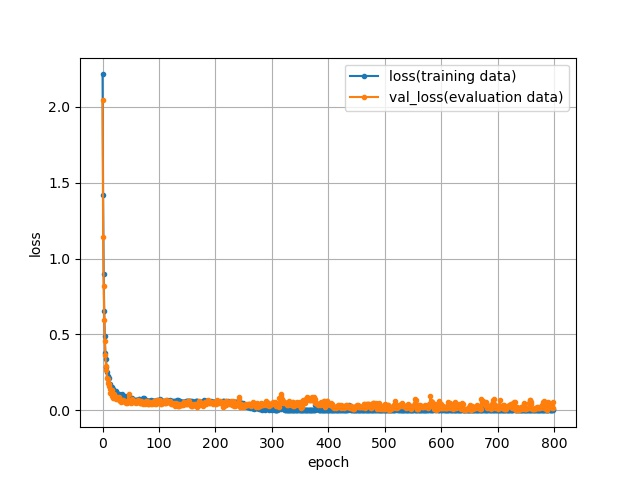
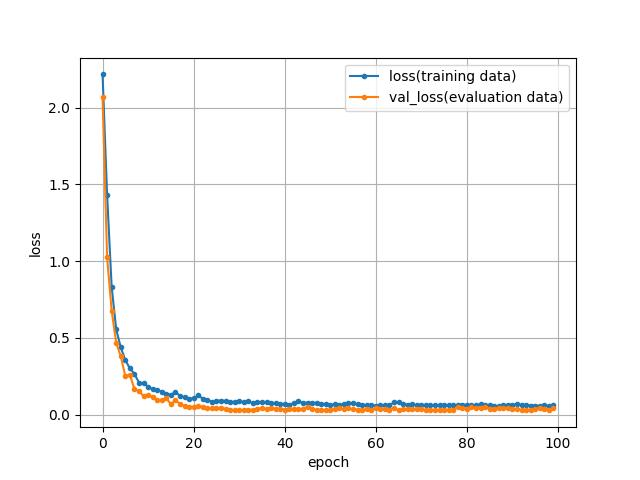
bug fixes

diff --git a/term_project/term.py b/term_project/term.py
@@ -18,6 +18,7 @@ gpus = tf.config.experimental.list_physical_devices('GPU')
 for gpu in gpus:
   tf.config.experimental.set_memory_growth(gpu, True) 
 print("Num GPUs Available: ", len(tf.config.list_physical_devices('GPU')))
+print(gpus)
 
 def prepare_data(image_path):
   num_image = 0
@@ -54,7 +55,7 @@ x_test, y_test = prepare_data("test_image")
 # hyperparameters
 batch_size = 128
 num_classes = 10
-epochs = 800
+epochs = 100
 
 # normalize images
 x_train = x_train.reshape(2450, 28, 28, 1).astype('float32')
@@ -127,14 +128,14 @@ print('test loss:', score[0])
 print('test acc:', score[1])
 
 # plot loss figure
-# loss = hist.history['loss']
-# val_loss = hist.history['val_loss']
-# epochs = len(loss)
-# plt.plot(range(epochs), loss, marker='.', label='loss(training data)')
-# plt.plot(range(epochs), val_loss, marker='.', label='val_loss(evaluation data)')
-# plt.legend(loc='best')
-# plt.grid()
-# plt.xlabel('epoch')
-# plt.ylabel('loss')
-# plt.show()
-# plt.savefig("result.jpg")
+loss = hist.history['loss']
+val_loss = hist.history['val_loss']
+epochs = len(loss)
+plt.plot(range(epochs), loss, marker='.', label='loss(training data)')
+plt.plot(range(epochs), val_loss, marker='.', label='val_loss(evaluation data)')
+plt.legend(loc='best')
+plt.grid()
+plt.xlabel('epoch')
+plt.ylabel('loss')
+plt.savefig("result.jpg")
+plt.show()
